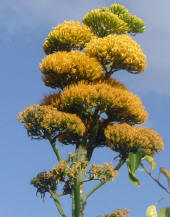
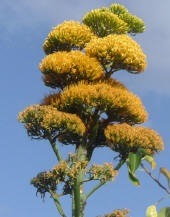
minor changes

diff --git a/index.html b/index.html
@@ -37,7 +37,7 @@
         <li>National Fruit: Antigua Black Pineapple</li>
 		<img src="Project_1/media/blackpineapple.jpg" alt="Antigua black pineapple">
         <li>National Flower: Dagger Log</li>
-		<img src="Project_1/media/daggerlogplant.jpg" alt="National plant">
+		<img src="Project_1/media/daggerlogplant.JPG" alt="National plant">
         <li>National Tree: Whitewood</li>
 		<img src="Project_1/media/whitewoodtree.jpg" alt="Antigua black pineapple">
         <li>National Sea Animal: Hawksbill Turtle</li>
